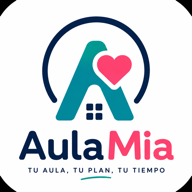
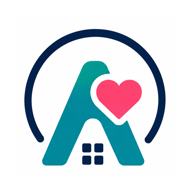
Icono solo con el símbolo (sin nombre ni frase)
- Iconos recortados al símbolo (arco + A + corazón + ventana), sin el
  texto "AulaMia" ni la frase
- Pantalla de acceso: símbolo + wordmark "AulaMia" al lado

diff --git a/src/pages/Acceso.tsx b/src/pages/Acceso.tsx
@@ -30,15 +30,12 @@ export function Acceso() {
   return (
     <div className="flex min-h-dvh items-center justify-center bg-ground px-5">
       <div className="w-full max-w-sm">
-        <div className="mb-8 text-center">
-          <img
-            src="/pwa-512.png"
-            alt="AulaMia"
-            width={120}
-            height={120}
-            className="mx-auto rounded-3xl shadow-sm"
-          />
-          <p className="mt-3 text-sm text-muted">
+        <div className="mb-8 flex flex-col items-center text-center">
+          <img src="/pwa-512.png" alt="" width={96} height={96} className="rounded-2xl" />
+          <span className="mt-2 font-display text-2xl font-bold tracking-tight text-ink">
+            Aula<span className="text-accent-ink">Mia</span>
+          </span>
+          <p className="mt-1 text-sm text-muted">
             Agenda y planificador de clases de repaso
           </p>
         </div>
